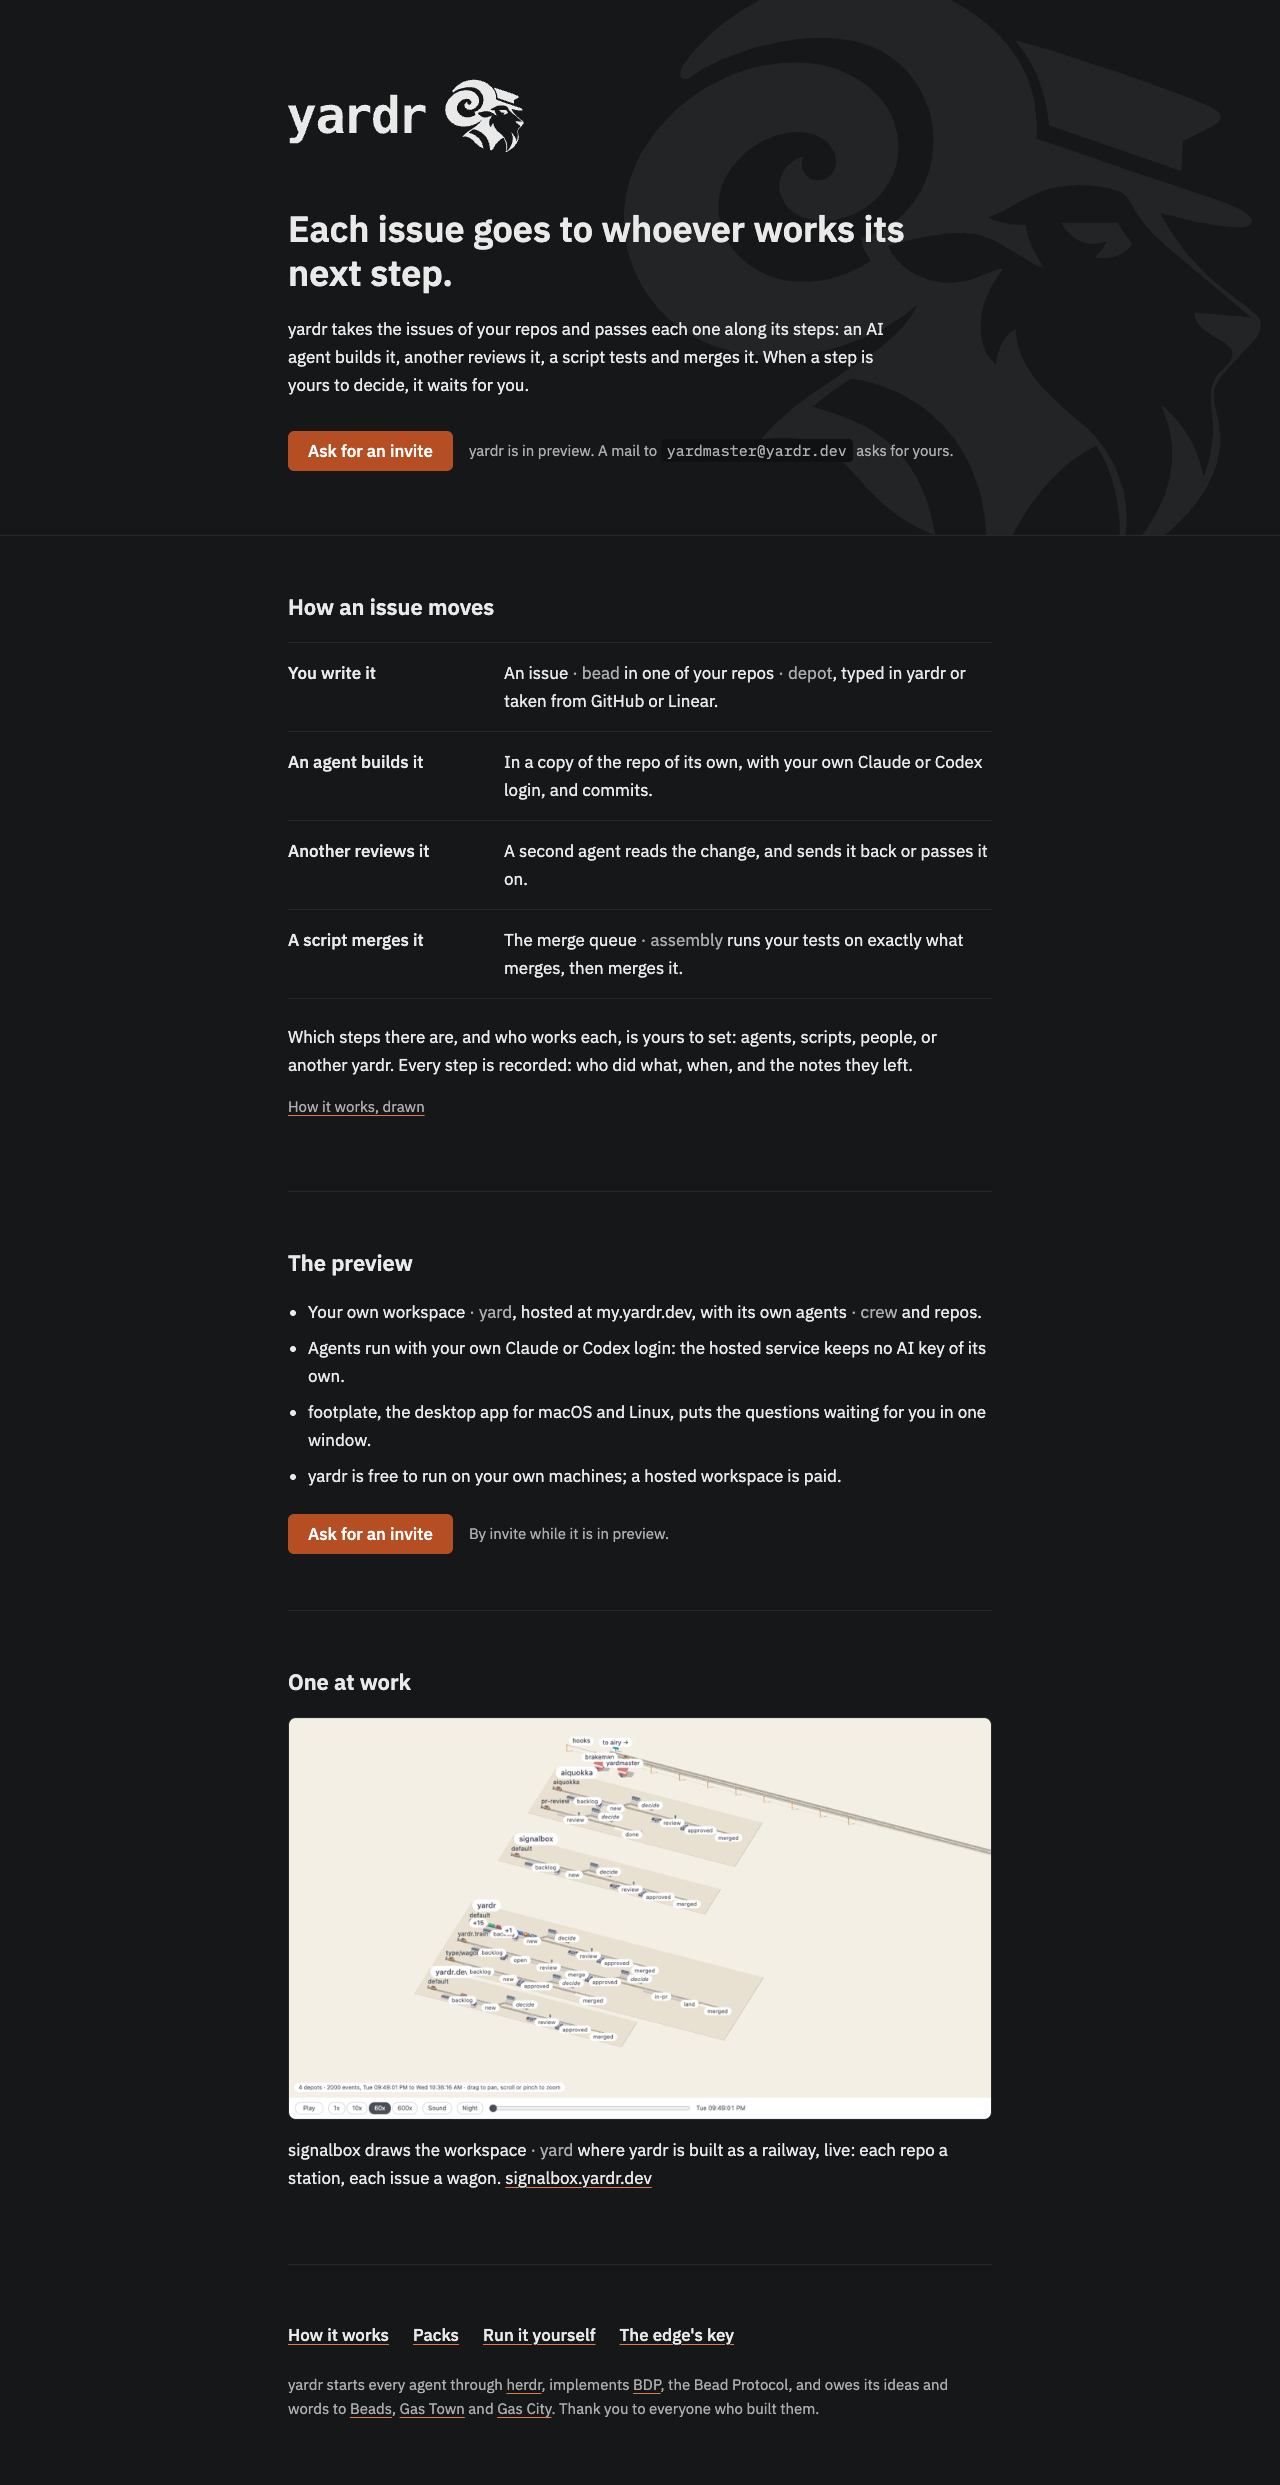
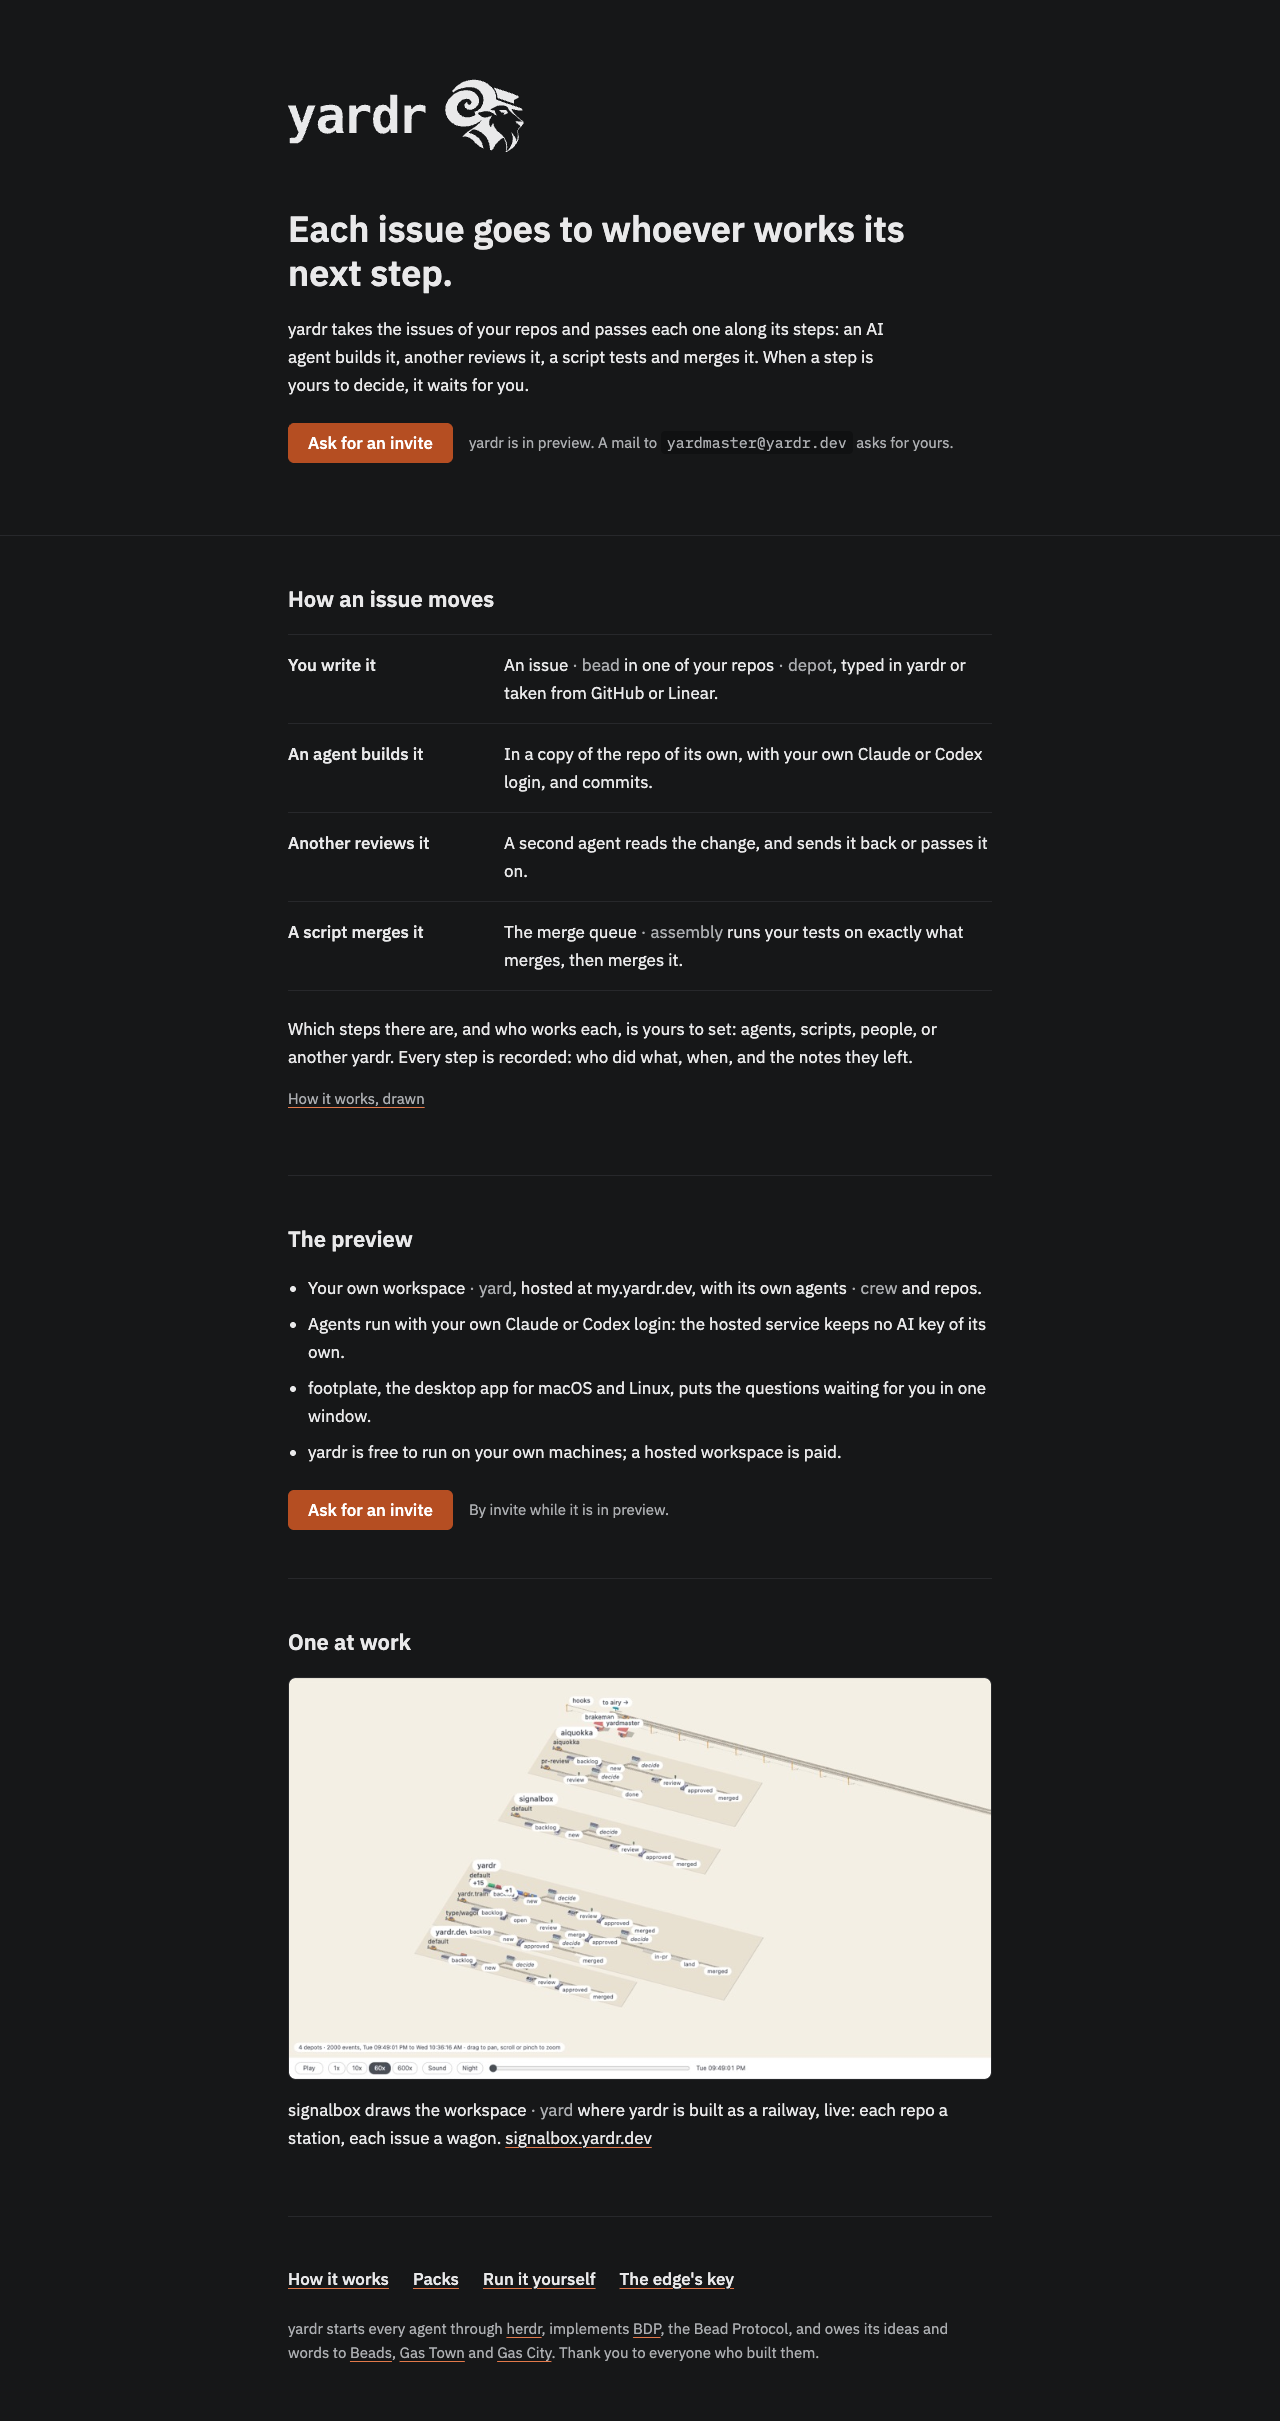
yardr-q04p: answer the critique: bead order, the spacing scale, the signalbox picture
Bead 5 waits on bead 3, which edits the same pack pages; the mockup's
gaps are 48 and 72 only, as the web scale says, and is shot again; the
signalbox picture is placed under the design system's imagery rule; the
plain word for assembly joins open question 6.

Yardr-Bead: yardr-q04p

Yardr-Bead: yardr-q04p
Yardr-Agent: opus-builders (claude claude-opus-5-5)

diff --git a/docs/design/2026-10-21-yardr-q04p-site-overhaul/front.html b/docs/design/2026-10-21-yardr-q04p-site-overhaul/front.html
@@ -52,7 +52,7 @@ code { font:var(--type-code); padding:2px 6px; border-radius:4px; background:var
 /* The plain word first, the yard's own word beside it, quieter. */
 .rw { color:var(--text-secondary); }
 
-.hero { position:relative; overflow:hidden; padding:72px 0 64px; border-bottom:1px solid var(--border-subtle); }
+.hero { position:relative; overflow:hidden; padding:72px 0; border-bottom:1px solid var(--border-subtle); }
 .hero .wrap { position:relative; }
 /* The big ram stays as decoration (mckean, 21 Oct): yardr-mark.svg as a mask
    over the text colour, so one file serves both themes. */
@@ -61,14 +61,14 @@ code { font:var(--type-code); padding:2px 6px; border-radius:4px; background:var
   -webkit-mask:url(yardr-mark.svg) center / contain no-repeat; mask:url(yardr-mark.svg) center / contain no-repeat; }
 .lockup { display:block; width:240px; aspect-ratio:210.6 / 76; background:var(--lockup) left center / contain no-repeat; margin-bottom:48px; }
 h1 { font:var(--type-title); margin:0 0 20px; max-width:620px; }
-.lede { margin:0 0 32px; max-width:620px; color:var(--text-primary); }
+.lede { margin:0 0 24px; max-width:620px; color:var(--text-primary); }
 .invite { display:flex; flex-wrap:wrap; align-items:center; gap:12px 16px; }
 .button { display:inline-flex; align-items:center; height:40px; padding:0 20px; border-radius:6px;
   background:var(--button-primary); color:var(--text-on-accent); font:var(--type-label); text-decoration:none; }
 .button:hover { background:var(--button-primary-hover); color:var(--text-on-accent); }
 .invite p { margin:0; font:var(--type-meta); color:var(--text-secondary); }
 
-section, footer { padding:56px 0; }
+section, footer { padding:48px 0; }
 section + section, footer { border-top:1px solid var(--border-subtle); }
 h2 { font:var(--type-section); margin:0 0 20px; }
 p { margin:0 0 16px; }

diff --git a/docs/design/2026-10-21-yardr-q04p-site-overhaul.md b/docs/design/2026-10-21-yardr-q04p-site-overhaul.md
@@ -220,7 +220,8 @@ wants the machinery is.
 draws the workspace · yard where yardr is built as a railway, live: each
 repo a station, each issue a wagon." and the link to signalbox.yardr.dev.
 signalbox's own railway words (station, wagon, shunter) describe a drawing
-of a railway, so they stay.
+of a railway, so they stay. The picture is the railway imagery the design system
+asks for, not a background; section 3.6 says how it meets the rules.
 
 **Footer.** One row of links: How it works (`/how`), Packs (`/packs`), Run
 it yourself (`/self-host`), The edge's key (`/edge`); then the
@@ -256,7 +257,7 @@ shown on a page is open question 2.
 | depot | 24 | repo · depot | a depot is a git repository or a plain directory; where a page means both, "repo or folder · depot" |
 | yard | 30 | workspace · yard | one installation of yardr; the plain word is open question 6 |
 | crew, crew member | 18 | agents · crew, agent · crew member | the always-on agents of a yard |
-| assembly | 6 | merge queue · assembly | the group that tests an approved change and merges it |
+| assembly | 6 | merge queue · assembly | the group that tests an approved change and merges it; the plain word is open question 6 |
 | line | in the glossary and the flow page | pipeline · line | what an issue travels through in one repo |
 | train | glossary, packs | grouped change · train | an issue whose sub-issues merge as one |
 | wagon (the bead) | glossary, packs | sub-issue · wagon | a child of a train |
@@ -306,8 +307,9 @@ pages meet it. "Web scale" refers to open question 4.
 | Hack 700 only in the lockup; never retype the lockup | `<h1>yardr</h1>` retyped in monospace 700 at 11rem | the fixed lockup file; no text set in Hack |
 | No display type, no all-caps labels | section headings in mono capitals, tracked 0.08em, on every page | section headings in the section role, sentence case, Plex Sans 600, primary text colour |
 | Five type roles (title, section, label, body, meta) | ad hoc sizes per page (`clamp(1.2rem, 3.2vw, 1.6rem)`, `0.85rem`, `0.95rem`) | the same five roles and weights, at the web scale: title 36/44, section 22/30, label and body 17/28, meta 15/24, code 15/24 |
-| Spacing scale 2/4/6/8/12/16/20/24 | rem values off the scale (`0.35rem`, `0.9rem`, `1.75rem`) | every gap from the scale; the larger gaps between sections as multiples of 24 at the web scale (48, 56, 72) |
-| Flat surfaces; no gradients, textures, images or blur in the UI | flat, except the ram | flat, except the ram, kept by mckean's explicit ask: it is decoration in the hero, not a surface, and is recorded here as the one exception |
+| Spacing scale 2/4/6/8/12/16/20/24 | rem values off the scale (`0.35rem`, `0.9rem`, `1.75rem`) | every gap from the scale; the larger gaps between sections as multiples of 24 at the web scale (48 between sections, 72 above and below the hero); the mockup uses only these and the scale's steps |
+| Flat surfaces; no gradients, textures, images or blur in the UI (`readme.md:100`, under Backgrounds) | flat, except the ram | flat, except the ram, kept by mckean's explicit ask: it sits behind the hero as a background would, so it is recorded here as the one exception to this rule |
+| Imagery stays in the railway family: railway drawings, "signalbox draws the yard as track, platforms and wagons" (`readme.md:118`) | the signalbox picture | the signalbox picture stays, as the railway imagery this rule names: it is content in the page's flow, a picture of the product at work, not a background or a surface, so the Backgrounds rule above does not reach it |
 | Only decision items are cards | the runner cards on `/`; the pack list on `/packs` is bordered boxes | rows divided by hairlines (the steps on `/`, the packs on `/packs`); the signalbox picture keeps a 1px subtle border and the 8px radius as an image, not a card |
 | Radii 4 / 6 / 8 / full | 4, 5, 6 and 999 mixed (`Command.astro` uses 5) | 4 for code, 6 for the button and controls, 8 for the picture and code panels, full for the pack tag chips |
 | Focus: 2px rust outline, 1px offset, keyboard only | browser default | `:focus-visible { outline: 2px solid var(--focus-ring); outline-offset: 1px }` once, in `global.css` |
@@ -401,11 +403,20 @@ default and light opt-in; the site follows the visitor's system setting.
 - (b) Always dark, as the app is. Costs the light-system reader a dark page.
 - I would take (a).
 
-**6. The plain word for "yard".**
+**6. The plain words for "yard" and "assembly".** First "yard":
 - (a) "workspace · yard". Common in tools a reader knows; slightly vague.
 - (b) "your yardr · yard". Says what it is, reads awkwardly in a sentence
   ("a hosted yardr").
 - (c) Keep "yard" and explain it at first use, like yardmaster.
+- I would take (a); the mockups use it.
+
+Then "assembly", the starter pack's group that tests an approved change
+on exactly what will land and lands it (the `/how` glossary):
+- (a) "merge queue · assembly". The name a reader knows from GitHub and
+  GitLab for this job; it says that changes wait their turn, which an
+  assembly does, but it is a feature's name rather than an everyday word.
+- (b) "merge step · assembly". Plainer, and matches "How an issue
+  moves", whose rows are steps; it says nothing of testing.
 - I would take (a); the mockups use it.
 
 **7. The large mark.** The lockup files and `yardr-mark.svg` carry the
@@ -491,7 +502,9 @@ border, 6px radius). Where to look: `src/pages/packs/index.astro`,
 `src/components/PackTags.astro`, `src/pages/packs/[name].astro`. Done
 when: the filter and search work as today (chips narrow, search matches
 name, line and tag), with the new look in both themes; the gate passes.
-Depends on 1; can land before or after 3 and 4.
+Depends on 1 and 3: bead 3 adds the word pairs to `/packs` and
+`/packs/<name>`, and this bead edits the same two files, so it lands
+after that one; it can land before or after 4.
 
 Beads 1 to 5 are each one session. If open questions 1 and 4 are answered
 (b) or (c), bead 0 is dropped and beads 1 and 3 follow the answer.
